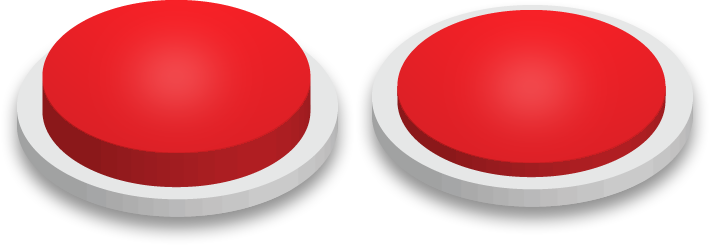
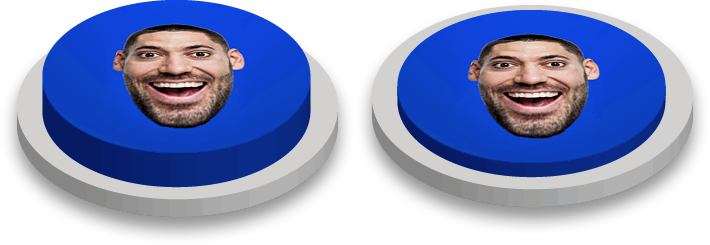
new graphics

diff --git a/index.htm b/index.htm
@@ -2,16 +2,17 @@
 <html>
   <head>
     <meta charset="utf-8">
-    <title>Button Test</title>
+    <title>Dempsey Button</title>
     <meta name="viewport" content="width=500">
     <script src="//ajax.googleapis.com/ajax/libs/jquery/1.10.2/jquery.min.js"></script>
-    <script type="text/javascript" src="scripts/deuce.js"></script>
-    <link href="css/deuce.css" rel="stylesheet" type="text/css" />
+    <script type="text/javascript" src="scripts/deuce.js?v=1"></script>
+    <link href="css/deuce.css?v=1" rel="stylesheet" type="text/css" />
   </head>
   <body>
 
     <div id="wrap">
       <div id="button"></div>
+      <div id="scjerk"><a href="http://www.reddit.com/r/soccercirclejerk">brought to you by /r/soccercirclejerk</a></div>
     </div>
       
     <div id="player">

diff --git a/css/deuce.css b/css/deuce.css
@@ -1,22 +1,32 @@
 body {
+  background: url(../images/stripes.png?v=1) 0 0;
   margin: 0;
 	padding: 0;
 }
 
 #button {
+  background: url(../images/button.png?v=1) 0 0 no-repeat;
 	width: 355px;
 	height: 245px;
-  margin: 80px auto;
-	background: url(../images/button.png) 0 0 no-repeat;
+  margin: 60px auto;
+  text-align: center;
 }
 
 	#button.pressed {
-		margin: 90px auto;
-		background-position: -355px 0;
+		background-position: -355px 10px;
 	}
 
 #wrap {
 	width: 500px;
 	height: auto;
 	margin: 80px auto;
+  text-align: center;
+}
+
+#scjerk a {
+  font-family: Arial;
+  font-size: 12px;
+  color: #fff;
+  text-decoration: none;
+  font-style: italic;
 }

diff --git a/scripts/deuce.js b/scripts/deuce.js
@@ -5,6 +5,7 @@ $(document).ready(function(){
   
 	button.mousedown(function() {
 	  $(this).addClass("pressed");
+    audio.load();
 	  audio.play();  
 	});
   
